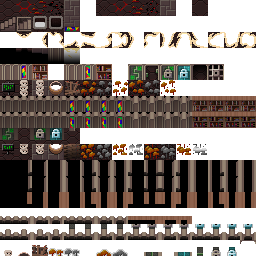
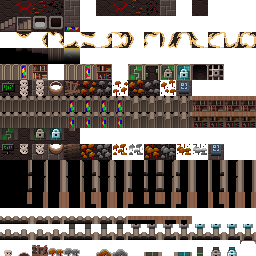
rune table

diff --git a/core/src/main/java/com/shatteredpixel/shatteredpixeldungeon/tiles/DungeonTileSheet.java b/core/src/main/java/com/shatteredpixel/shatteredpixeldungeon/tiles/DungeonTileSheet.java
@@ -184,9 +184,11 @@ public class DungeonTileSheet {
 	public static final int FLAT_BARRICADE      = FLAT_OTHER+4;
 	public static final int FLAT_HIGH_GRASS     = FLAT_OTHER+5;
 	public static final int FLAT_FURROWED_GRASS = FLAT_OTHER+6;
-
+	
 	public static final int FLAT_HIGH_GRASS_ALT = FLAT_OTHER+8;
 	public static final int FLAT_FURROWED_ALT   = FLAT_OTHER+9;
+
+	public static final int FLAT_RUNE_TABLE 	= FLAT_OTHER+11;
 
 
 	/**********************************************************************
@@ -275,6 +277,7 @@ public class DungeonTileSheet {
 	public static final int RAISED_BARRICADE        = RAISED_OTHER+4;
 	public static final int RAISED_HIGH_GRASS       = RAISED_OTHER+5;
 	public static final int RAISED_FURROWED_GRASS   = RAISED_OTHER+6;
+	public static final int RAISED_RUNE_TABLE   	= RAISED_OTHER+13;
 
 	//these are part of a layer that appears above characters, despite not being part of overhang
 	public static final int RAISED_HIGH_GRASS_OVER      = RAISED_OTHER+7;
@@ -401,6 +404,7 @@ public class DungeonTileSheet {
 		directFlatVisuals.put(Terrain.STATUE,           FLAT_STATUE);
 		directFlatVisuals.put(Terrain.STATUE_SP,        FLAT_STATUE_SP);
 		directFlatVisuals.put(Terrain.ALCHEMY,          FLAT_ALCHEMY_POT);
+		directFlatVisuals.put(Terrain.RUNETABLE,        FLAT_RUNE_TABLE);
 		directFlatVisuals.put(Terrain.BARRICADE,        FLAT_BARRICADE);
 		directFlatVisuals.put(Terrain.HIGH_GRASS,       FLAT_HIGH_GRASS);
 		directFlatVisuals.put(Terrain.FURROWED_GRASS,   FLAT_FURROWED_GRASS);

diff --git a/core/src/main/java/com/shatteredpixel/shatteredpixeldungeon/levels/rooms/special/LibraryRoom.java b/core/src/main/java/com/shatteredpixel/shatteredpixeldungeon/levels/rooms/special/LibraryRoom.java
@@ -31,6 +31,7 @@ import com.shatteredpixel.shatteredpixeldungeon.items.scrolls.ScrollOfRemoveCurs
 import com.shatteredpixel.shatteredpixeldungeon.levels.Level;
 import com.shatteredpixel.shatteredpixeldungeon.levels.Terrain;
 import com.shatteredpixel.shatteredpixeldungeon.levels.painters.Painter;
+import com.watabou.utils.Point;
 import com.watabou.utils.Random;
 
 public class LibraryRoom extends SpecialRoom {
@@ -44,8 +45,11 @@ public class LibraryRoom extends SpecialRoom {
 		
 		Painter.fill( level, left + 1, top+1, width() - 2, 1 , Terrain.BOOKSHELF );
 		Painter.drawInside(level, this, entrance, 1, Terrain.EMPTY_SP );
+
+		Point table = center();
+		Painter.set( level, table, Terrain.RUNETABLE );
 		
-		int n = Random.NormalIntRange( 2, 4 );
+		int n = Random.NormalIntRange( 2, 3 );
 		for (int i=0; i < n; i++) {
 			int pos;
 			do {

diff --git a/core/src/main/java/com/shatteredpixel/shatteredpixeldungeon/levels/Level.java b/core/src/main/java/com/shatteredpixel/shatteredpixeldungeon/levels/Level.java
@@ -1478,6 +1478,8 @@ public abstract class Level implements Bundlable {
 				return Messages.get(Level.class, "bookshelf_name");
 			case Terrain.ALCHEMY:
 				return Messages.get(Level.class, "alchemy_name");
+			case Terrain.RUNETABLE:
+				return Messages.get(Level.class, "runetable_name");
 			default:
 				return Messages.get(Level.class, "default_name");
 		}
@@ -1517,6 +1519,8 @@ public abstract class Level implements Bundlable {
 				return Messages.get(Level.class, "statue_desc");
 			case Terrain.ALCHEMY:
 				return Messages.get(Level.class, "alchemy_desc");
+			case Terrain.RUNETABLE:
+				return Messages.get(Level.class, "runetable_desc");
 			case Terrain.EMPTY_WELL:
 				return Messages.get(Level.class, "empty_well_desc");
 			default:

diff --git a/core/src/main/java/com/shatteredpixel/shatteredpixeldungeon/tiles/DungeonTerrainTilemap.java b/core/src/main/java/com/shatteredpixel/shatteredpixeldungeon/tiles/DungeonTerrainTilemap.java
@@ -74,6 +74,8 @@ public class DungeonTerrainTilemap extends DungeonTilemap {
 				return DungeonTileSheet.RAISED_STATUE_SP;
 			} else if (tile == Terrain.ALCHEMY) {
 				return DungeonTileSheet.RAISED_ALCHEMY_POT;
+			} else if (tile == Terrain.RUNETABLE) {
+				return DungeonTileSheet.RAISED_RUNE_TABLE;
 			} else if (tile == Terrain.BARRICADE) {
 				return DungeonTileSheet.RAISED_BARRICADE;
 			} else if (tile == Terrain.HIGH_GRASS) {

diff --git a/core/src/main/java/com/shatteredpixel/shatteredpixeldungeon/actors/hero/Hero.java b/core/src/main/java/com/shatteredpixel/shatteredpixeldungeon/actors/hero/Hero.java
@@ -1661,7 +1661,7 @@ public class Hero extends Char {
 		Char ch = Actor.findChar( cell );
 		Heap heap = Dungeon.level.heaps.get( cell );
 
-		if (Dungeon.level.map[cell] == Terrain.ALCHEMY && cell != pos) {
+		if ((Dungeon.level.map[cell] == Terrain.ALCHEMY || Dungeon.level.map[cell] == Terrain.RUNETABLE) && cell != pos) {
 			
 			curAction = new HeroAction.Alchemy( cell );
 			

diff --git a/core/src/main/java/com/shatteredpixel/shatteredpixeldungeon/levels/rooms/secret/SecretLibraryRoom.java b/core/src/main/java/com/shatteredpixel/shatteredpixeldungeon/levels/rooms/secret/SecretLibraryRoom.java
@@ -83,7 +83,7 @@ public class SecretLibraryRoom extends SecretRoom {
 		}
 		entrance.set( Door.Type.HIDDEN );
 		
-		int n = Random.IntRange( 3, 4 );
+		int n = Random.IntRange( 2, 3 );
 		HashMap<Class<? extends Scroll>, Float> chances = new HashMap<>(scrollChances);
 		for (int i=0; i < n; i++) {
 			int pos;

diff --git a/core/src/main/java/com/shatteredpixel/shatteredpixeldungeon/levels/Terrain.java b/core/src/main/java/com/shatteredpixel/shatteredpixeldungeon/levels/Terrain.java
@@ -56,6 +56,7 @@ public class Terrain {
 	public static final int STATUE_SP		= 26;
 	public static final int BOOKSHELF		= 27;
 	public static final int ALCHEMY			= 28;
+	public static final int RUNETABLE		= 32;
 
 	public static final int WATER		    = 29;
 	

diff --git a/README.md b/README.md
@@ -1,4 +1,4 @@
-Based on sattered pixel dungeon version 2.1.4.
+Based on shattered pixel dungeon version 2.1.4.
 https://github.com/00-Evan/shattered-pixel-dungeon
 
 # Summary of content
